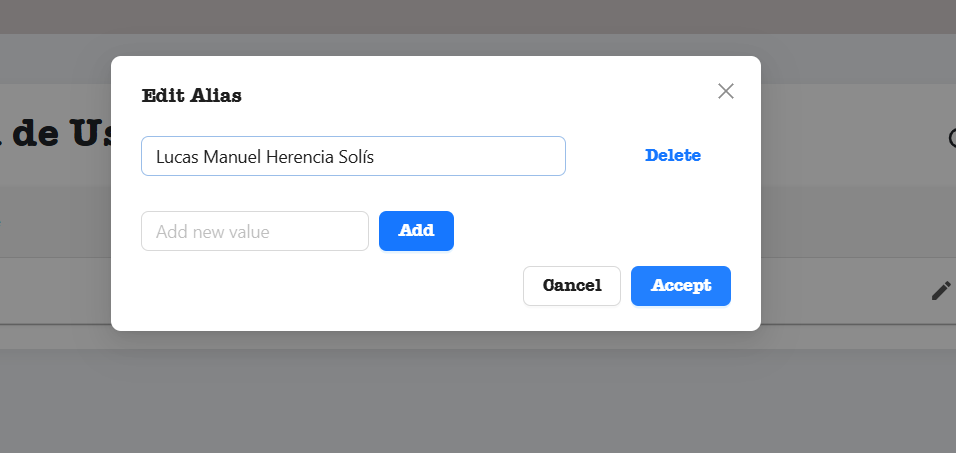
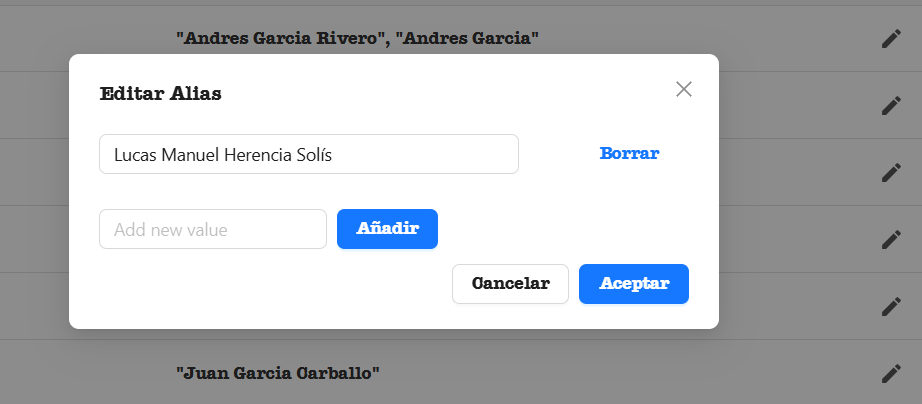
[CHORE]: Cambios en etiquetas

diff --git a/frontend/src/screens/repositories/repository/repositoryDetails/index.jsx b/frontend/src/screens/repositories/repository/repositoryDetails/index.jsx
@@ -131,14 +131,14 @@ export default function RepositoryDetails() {
         subtitle="Se borrará toda configuración realizada y la relación a un workspace en caso de existir"
         handleDelete={handleDeleteRepository}
         isOpen={deleteModalRepository}
-        onClose={setDeleteModalRepository}
+        onClose={() => setDeleteModalRepository(false)}
       />
       <DeleteModal 
         text='¿Estas seguro de querer borrar la relación a este workspace?'
         subtitle="Se borrará toda configuración realizada en dicho workspace"
         handleDelete={handleDeleteRelationWorkspace}
         isOpen={deleteModalRelationWorkspace}
-        onClose={setDeleteModalRelationWorkspace}
+        onClose={() => setDeleteModalRelationWorkspace(false)}
       />
       <div className="profile-container">
         <div className="profile-image">
@@ -154,7 +154,7 @@ export default function RepositoryDetails() {
               alt="Avatar"
               id='avatar'
             /> :
-            <IoPersonCircleOutline id='avatar' title='Avatar Error' style={{ color: 'red', height: 350, width: 350, }} />
+            <IoPersonCircleOutline id='avatar' title='Avatar Error' style={{ color: 'grey', height: 350, width: 350, }} />
           }
           
         </div>

diff --git a/frontend/src/screens/repositories/repository/folder/index.jsx b/frontend/src/screens/repositories/repository/folder/index.jsx
@@ -9,8 +9,8 @@ export default function Folder() {
     const { owner, repo, "*": path } = useParams();
     
     const sections = {
-        "Files": <FolderContent />,
-        "Contributions": <Contributions owner={owner} repo={repo} path={path} isFolder={true} />,
+        "Archivos": <FolderContent />,
+        "Contribuciones": <Contributions owner={owner} repo={repo} path={path} isFolder={true} />,
     }
 
     return (

diff --git a/frontend/src/screens/repositories/repository/file/index.jsx b/frontend/src/screens/repositories/repository/file/index.jsx
@@ -9,8 +9,8 @@ export default function File() {
     const { owner, repo, "*": path } = useParams();
 
     const sections = {
-        "Content": <FileContent />,
-        "Contributions": <Contributions owner={owner} repo={repo} path={path} />,
+        "Contenido": <FileContent />,
+        "Contribuciones": <Contributions owner={owner} repo={repo} path={path} />,
     }
 
     return (
